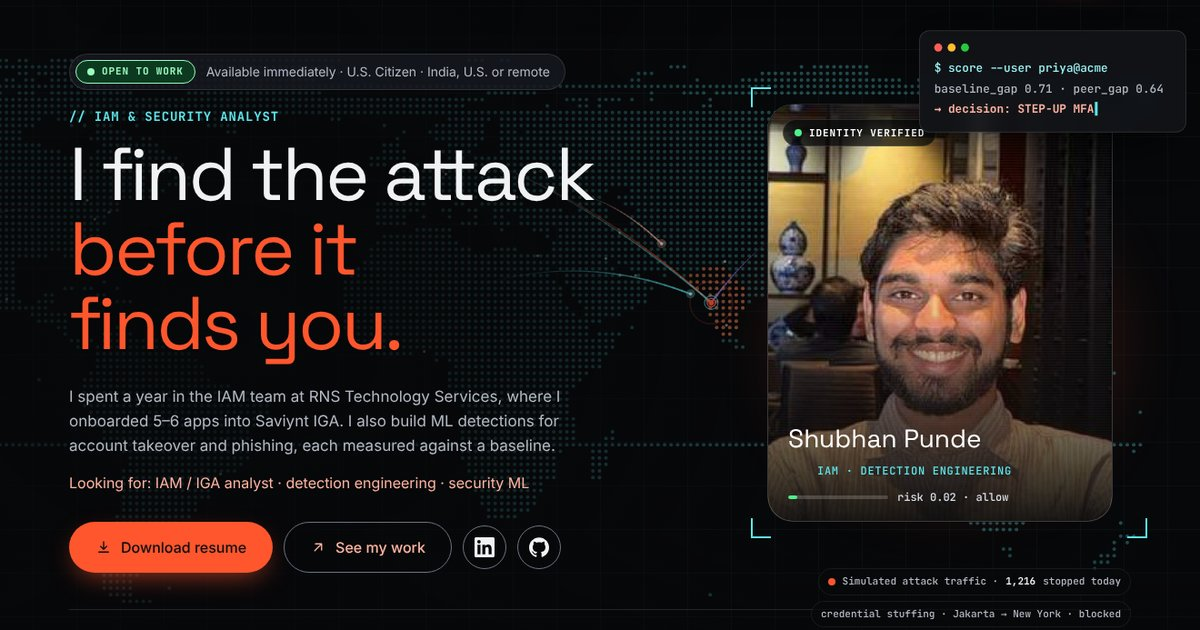
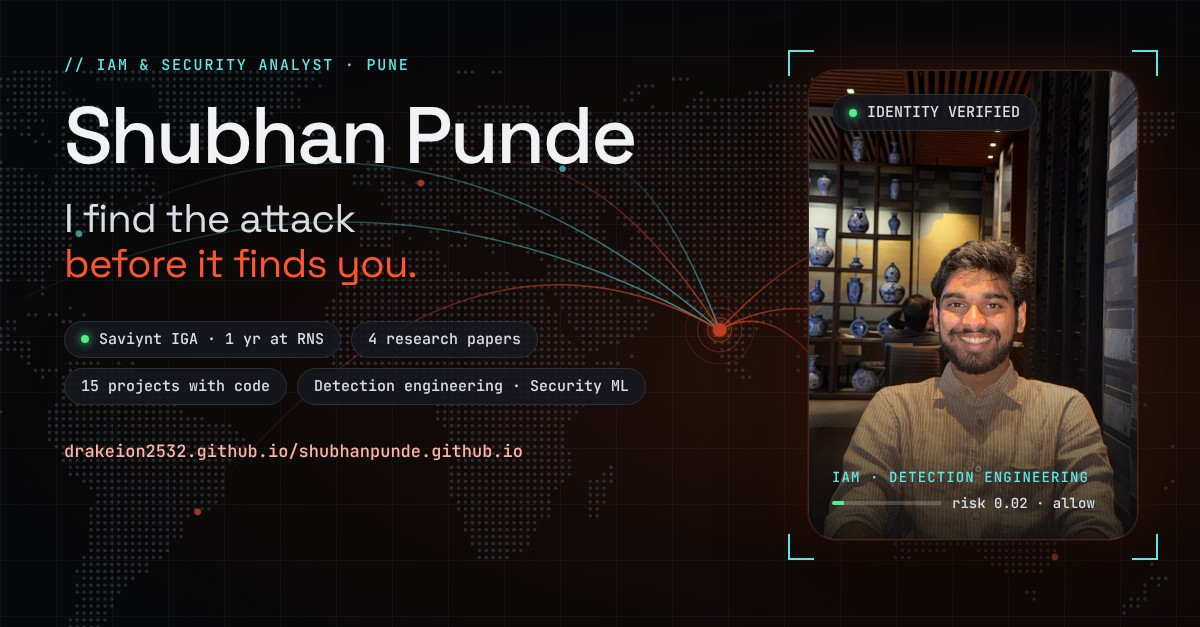
New LinkedIn/social share card and og:image size tags
Claude-Session: https://claude.ai/code/session_01FwuMdpLk88ueX29KoD8akT

diff --git a/projects/kruskal-mst-visualiser/index.html b/projects/kruskal-mst-visualiser/index.html
@@ -16,7 +16,11 @@
 <meta property="og:title" content="Kruskal&#x27;s MST Visualiser · Shubhan Punde">
 <meta property="og:description" content="Kruskal&#x27;s MST Visualiser: Watching the cheapest network get built, one edge at a time. An interactive OpenGL animation of Kruskal&#x27;s algorithm with union-find. It finds the textbook answer (37), passes 1,560 checks including agreement with Prim&#x27;s algorithm on 500 random graphs, and plans an India fib">
 <meta property="og:url" content="https://drakeion2532.github.io/shubhanpunde.github.io/projects/kruskal-mst-visualiser/">
-<meta property="og:image" content="https://drakeion2532.github.io/shubhanpunde.github.io/img/og.jpg">
+<meta property="og:image" content="https://drakeion2532.github.io/shubhanpunde.github.io/img/og.jpg?v=2">
+<meta property="og:image:width" content="1200">
+<meta property="og:image:height" content="627">
+<meta property="og:image:alt" content="Shubhan Punde, IAM and security analyst: I find the attack before it finds you.">
+<meta property="og:site_name" content="Shubhan Punde">
 <meta name="twitter:card" content="summary_large_image">
 <link rel="icon" href="../../favicon.svg" type="image/svg+xml">
 <link rel="preload" href="../../assets/fonts/space-grotesk-latin-wght-normal.woff2" as="font" type="font/woff2" crossorigin>

diff --git a/projects/friend-recommendation/index.html b/projects/friend-recommendation/index.html
@@ -16,7 +16,11 @@
 <meta property="og:title" content="Friend Recommendation Engine · Shubhan Punde">
 <meta property="og:description" content="Friend Recommendation Engine: &#x27;People you may know&#x27;, ranked from the shape of the network. A plain-C11 engine that suggests friends with three link-prediction scores and finds degrees of separation with BFS. On a real 22,470-node Facebook network, Adamic-Adar puts a real hidden friend in the top 10 ">
 <meta property="og:url" content="https://drakeion2532.github.io/shubhanpunde.github.io/projects/friend-recommendation/">
-<meta property="og:image" content="https://drakeion2532.github.io/shubhanpunde.github.io/img/og.jpg">
+<meta property="og:image" content="https://drakeion2532.github.io/shubhanpunde.github.io/img/og.jpg?v=2">
+<meta property="og:image:width" content="1200">
+<meta property="og:image:height" content="627">
+<meta property="og:image:alt" content="Shubhan Punde, IAM and security analyst: I find the attack before it finds you.">
+<meta property="og:site_name" content="Shubhan Punde">
 <meta name="twitter:card" content="summary_large_image">
 <link rel="icon" href="../../favicon.svg" type="image/svg+xml">
 <link rel="preload" href="../../assets/fonts/space-grotesk-latin-wght-normal.woff2" as="font" type="font/woff2" crossorigin>

diff --git a/projects/traffic-collision-detection/index.html b/projects/traffic-collision-detection/index.html
@@ -16,7 +16,11 @@
 <meta property="og:title" content="Traffic Collision Detection · Shubhan Punde">
 <meta property="og:description" content="Traffic Collision Detection: Spotting crashes on CCTV and alerting responders in seconds. Four deep-learning models compared on one merged set of 41,476 CCTV images using two-phase transfer learning. The best model flags a collision, confirms it over several frames, and sends email, SMS and a Google">
 <meta property="og:url" content="https://drakeion2532.github.io/shubhanpunde.github.io/projects/traffic-collision-detection/">
-<meta property="og:image" content="https://drakeion2532.github.io/shubhanpunde.github.io/img/og.jpg">
+<meta property="og:image" content="https://drakeion2532.github.io/shubhanpunde.github.io/img/og.jpg?v=2">
+<meta property="og:image:width" content="1200">
+<meta property="og:image:height" content="627">
+<meta property="og:image:alt" content="Shubhan Punde, IAM and security analyst: I find the attack before it finds you.">
+<meta property="og:site_name" content="Shubhan Punde">
 <meta name="twitter:card" content="summary_large_image">
 <link rel="icon" href="../../favicon.svg" type="image/svg+xml">
 <link rel="preload" href="../../assets/fonts/space-grotesk-latin-wght-normal.woff2" as="font" type="font/woff2" crossorigin>

diff --git a/projects/plant-disease-detection/index.html b/projects/plant-disease-detection/index.html
@@ -16,7 +16,11 @@
 <meta property="og:title" content="Plant Disease Detection · Shubhan Punde">
 <meta property="og:description" content="Plant Disease Detection: One leaf photo in, a diagnosis and a next step out. A from-scratch PyTorch replication of Chohan et al. (2020) that identifies 26 diseases across 14 crops. It reaches 99.05% on 8,146 unseen images (paper: 98.3%), refuses photos that aren&#x27;t leaves, and tells the farmer what t">
 <meta property="og:url" content="https://drakeion2532.github.io/shubhanpunde.github.io/projects/plant-disease-detection/">
-<meta property="og:image" content="https://drakeion2532.github.io/shubhanpunde.github.io/img/og.jpg">
+<meta property="og:image" content="https://drakeion2532.github.io/shubhanpunde.github.io/img/og.jpg?v=2">
+<meta property="og:image:width" content="1200">
+<meta property="og:image:height" content="627">
+<meta property="og:image:alt" content="Shubhan Punde, IAM and security analyst: I find the attack before it finds you.">
+<meta property="og:site_name" content="Shubhan Punde">
 <meta name="twitter:card" content="summary_large_image">
 <link rel="icon" href="../../favicon.svg" type="image/svg+xml">
 <link rel="preload" href="../../assets/fonts/space-grotesk-latin-wght-normal.woff2" as="font" type="font/woff2" crossorigin>

diff --git a/projects/adaptive-traffic-signals/index.html b/projects/adaptive-traffic-signals/index.html
@@ -16,7 +16,11 @@
 <meta property="og:title" content="Adaptive Traffic Signals · Shubhan Punde">
 <meta property="og:description" content="Adaptive Traffic Signals: Counting vehicles on CCTV to give green time where the queue is. YOLOv8 detects and tracks every vehicle and counts it per lane, and an adaptive timer turns those counts into green time. In a 12-run junction simulation it moved 14.1% more vehicles than a fixed 30-second tim">
 <meta property="og:url" content="https://drakeion2532.github.io/shubhanpunde.github.io/projects/adaptive-traffic-signals/">
-<meta property="og:image" content="https://drakeion2532.github.io/shubhanpunde.github.io/img/og.jpg">
+<meta property="og:image" content="https://drakeion2532.github.io/shubhanpunde.github.io/img/og.jpg?v=2">
+<meta property="og:image:width" content="1200">
+<meta property="og:image:height" content="627">
+<meta property="og:image:alt" content="Shubhan Punde, IAM and security analyst: I find the attack before it finds you.">
+<meta property="og:site_name" content="Shubhan Punde">
 <meta name="twitter:card" content="summary_large_image">
 <link rel="icon" href="../../favicon.svg" type="image/svg+xml">
 <link rel="preload" href="../../assets/fonts/space-grotesk-latin-wght-normal.woff2" as="font" type="font/woff2" crossorigin>

diff --git a/projects/credit-default-scorecard/index.html b/projects/credit-default-scorecard/index.html
@@ -16,7 +16,11 @@
 <meta property="og:title" content="Credit Default Scorecard · Shubhan Punde">
 <meta property="og:description" content="Credit Default Scorecard: Approve or decline a loan by business cost, with reasons. A logistic scorecard ranks 1,000 German Credit applicants by default risk, chooses the approval cut-off by expected cost instead of 0.5, and explains every decline in points. The cost-based cut-off lowers expected co">
 <meta property="og:url" content="https://drakeion2532.github.io/shubhanpunde.github.io/projects/credit-default-scorecard/">
-<meta property="og:image" content="https://drakeion2532.github.io/shubhanpunde.github.io/img/og.jpg">
+<meta property="og:image" content="https://drakeion2532.github.io/shubhanpunde.github.io/img/og.jpg?v=2">
+<meta property="og:image:width" content="1200">
+<meta property="og:image:height" content="627">
+<meta property="og:image:alt" content="Shubhan Punde, IAM and security analyst: I find the attack before it finds you.">
+<meta property="og:site_name" content="Shubhan Punde">
 <meta name="twitter:card" content="summary_large_image">
 <link rel="icon" href="../../favicon.svg" type="image/svg+xml">
 <link rel="preload" href="../../assets/fonts/space-grotesk-latin-wght-normal.woff2" as="font" type="font/woff2" crossorigin>

diff --git a/projects/identity-risk-engine/index.html b/projects/identity-risk-engine/index.html
@@ -16,7 +16,11 @@
 <meta property="og:title" content="Identity Risk Engine · Shubhan Punde">
 <meta property="og:description" content="Identity Risk Engine: Account-takeover detection for Zero Trust access. A streaming User &amp; Entity Behaviour Analytics engine. It scores every login and app access against the user’s own baseline and their role’s peer group, explains why an event looks risky, and returns a Zero Trust decision: allow,">
 <meta property="og:url" content="https://drakeion2532.github.io/shubhanpunde.github.io/projects/identity-risk-engine/">
-<meta property="og:image" content="https://drakeion2532.github.io/shubhanpunde.github.io/img/og.jpg">
+<meta property="og:image" content="https://drakeion2532.github.io/shubhanpunde.github.io/img/og.jpg?v=2">
+<meta property="og:image:width" content="1200">
+<meta property="og:image:height" content="627">
+<meta property="og:image:alt" content="Shubhan Punde, IAM and security analyst: I find the attack before it finds you.">
+<meta property="og:site_name" content="Shubhan Punde">
 <meta name="twitter:card" content="summary_large_image">
 <link rel="icon" href="../../favicon.svg" type="image/svg+xml">
 <link rel="preload" href="../../assets/fonts/space-grotesk-latin-wght-normal.woff2" as="font" type="font/woff2" crossorigin>

diff --git a/projects/cyberbullying-detection/index.html b/projects/cyberbullying-detection/index.html
@@ -16,7 +16,11 @@
 <meta property="og:title" content="Cyberbullying Detection · Shubhan Punde">
 <meta property="og:description" content="Cyberbullying Detection: Telling bullying apart from banter, and naming who it targets. Five classic models vote on every tweet using TF-IDF and Word2Vec features. The ensemble sorts tweets into age, ethnicity, gender and religion bullying, or not bullying, and beats every single model it is built f">
 <meta property="og:url" content="https://drakeion2532.github.io/shubhanpunde.github.io/projects/cyberbullying-detection/">
-<meta property="og:image" content="https://drakeion2532.github.io/shubhanpunde.github.io/img/og.jpg">
+<meta property="og:image" content="https://drakeion2532.github.io/shubhanpunde.github.io/img/og.jpg?v=2">
+<meta property="og:image:width" content="1200">
+<meta property="og:image:height" content="627">
+<meta property="og:image:alt" content="Shubhan Punde, IAM and security analyst: I find the attack before it finds you.">
+<meta property="og:site_name" content="Shubhan Punde">
 <meta name="twitter:card" content="summary_large_image">
 <link rel="icon" href="../../favicon.svg" type="image/svg+xml">
 <link rel="preload" href="../../assets/fonts/space-grotesk-latin-wght-normal.woff2" as="font" type="font/woff2" crossorigin>

diff --git a/projects/card-fraud-analytics/index.html b/projects/card-fraud-analytics/index.html
@@ -16,7 +16,11 @@
 <meta property="og:title" content="Card Fraud Analytics · Shubhan Punde">
 <meta property="og:description" content="Card Fraud Analytics: An end-to-end fraud pipeline on 10 million card transactions in PySpark. Hive tables partitioned by day, behavioural features as Spark SQL window functions, a Spark MLlib gradient-boosted model compared head-to-head with fraud rules at the same alert budget, and HiveQL queries ">
 <meta property="og:url" content="https://drakeion2532.github.io/shubhanpunde.github.io/projects/card-fraud-analytics/">
-<meta property="og:image" content="https://drakeion2532.github.io/shubhanpunde.github.io/img/og.jpg">
+<meta property="og:image" content="https://drakeion2532.github.io/shubhanpunde.github.io/img/og.jpg?v=2">
+<meta property="og:image:width" content="1200">
+<meta property="og:image:height" content="627">
+<meta property="og:image:alt" content="Shubhan Punde, IAM and security analyst: I find the attack before it finds you.">
+<meta property="og:site_name" content="Shubhan Punde">
 <meta name="twitter:card" content="summary_large_image">
 <link rel="icon" href="../../favicon.svg" type="image/svg+xml">
 <link rel="preload" href="../../assets/fonts/space-grotesk-latin-wght-normal.woff2" as="font" type="font/woff2" crossorigin>

diff --git a/projects/covid-19-forecasting/index.html b/projects/covid-19-forecasting/index.html
@@ -16,7 +16,11 @@
 <meta property="og:title" content="COVID-19 Forecasting · Shubhan Punde">
 <meta property="og:description" content="COVID-19 Forecasting: Which classical models can a planner trust for the next 30 days?. Eight forecasting methods compared on daily cases in 6 countries with a leakage-free rolling backtest. The best models cut forecast error by about 25% against a naive baseline, and each forecast becomes a rising,">
 <meta property="og:url" content="https://drakeion2532.github.io/shubhanpunde.github.io/projects/covid-19-forecasting/">
-<meta property="og:image" content="https://drakeion2532.github.io/shubhanpunde.github.io/img/og.jpg">
+<meta property="og:image" content="https://drakeion2532.github.io/shubhanpunde.github.io/img/og.jpg?v=2">
+<meta property="og:image:width" content="1200">
+<meta property="og:image:height" content="627">
+<meta property="og:image:alt" content="Shubhan Punde, IAM and security analyst: I find the attack before it finds you.">
+<meta property="og:site_name" content="Shubhan Punde">
 <meta name="twitter:card" content="summary_large_image">
 <link rel="icon" href="../../favicon.svg" type="image/svg+xml">
 <link rel="preload" href="../../assets/fonts/space-grotesk-latin-wght-normal.woff2" as="font" type="font/woff2" crossorigin>

diff --git a/projects/smart-kitchen-safety/index.html b/projects/smart-kitchen-safety/index.html
@@ -16,7 +16,11 @@
 <meta property="og:title" content="Smart Kitchen Safety · Shubhan Punde">
 <meta property="og:description" content="Smart Kitchen Safety: Catching gas leaks and unattended cooking minutes earlier. Arduino and ESP8266 sensors stream to a cloud ML hazard detector that spots LPG leaks, fire and unattended cooking. On 120 hours of labelled sensor data it raises a gas-leak alarm in 12 s instead of 213 s, with under on">
 <meta property="og:url" content="https://drakeion2532.github.io/shubhanpunde.github.io/projects/smart-kitchen-safety/">
-<meta property="og:image" content="https://drakeion2532.github.io/shubhanpunde.github.io/img/og.jpg">
+<meta property="og:image" content="https://drakeion2532.github.io/shubhanpunde.github.io/img/og.jpg?v=2">
+<meta property="og:image:width" content="1200">
+<meta property="og:image:height" content="627">
+<meta property="og:image:alt" content="Shubhan Punde, IAM and security analyst: I find the attack before it finds you.">
+<meta property="og:site_name" content="Shubhan Punde">
 <meta name="twitter:card" content="summary_large_image">
 <link rel="icon" href="../../favicon.svg" type="image/svg+xml">
 <link rel="preload" href="../../assets/fonts/space-grotesk-latin-wght-normal.woff2" as="font" type="font/woff2" crossorigin>

diff --git a/projects/os-labs/index.html b/projects/os-labs/index.html
@@ -16,7 +16,11 @@
 <meta property="og:title" content="Operating Systems Labs · Shubhan Punde">
 <meta property="og:description" content="Operating Systems Labs: Textbook OS algorithms, checked against textbook answers. CPU scheduling, disk scheduling, page replacement, the Banker&#x27;s algorithm and Bash scripts from my VIT Pune OS lab, written in C. 42 automated checks compare the programs with Silberschatz&#x27;s answers and with 200 random">
 <meta property="og:url" content="https://drakeion2532.github.io/shubhanpunde.github.io/projects/os-labs/">
-<meta property="og:image" content="https://drakeion2532.github.io/shubhanpunde.github.io/img/og.jpg">
+<meta property="og:image" content="https://drakeion2532.github.io/shubhanpunde.github.io/img/og.jpg?v=2">
+<meta property="og:image:width" content="1200">
+<meta property="og:image:height" content="627">
+<meta property="og:image:alt" content="Shubhan Punde, IAM and security analyst: I find the attack before it finds you.">
+<meta property="og:site_name" content="Shubhan Punde">
 <meta name="twitter:card" content="summary_large_image">
 <link rel="icon" href="../../favicon.svg" type="image/svg+xml">
 <link rel="preload" href="../../assets/fonts/space-grotesk-latin-wght-normal.woff2" as="font" type="font/woff2" crossorigin>
